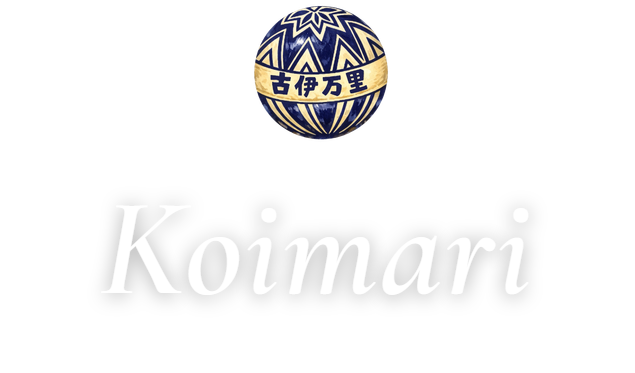
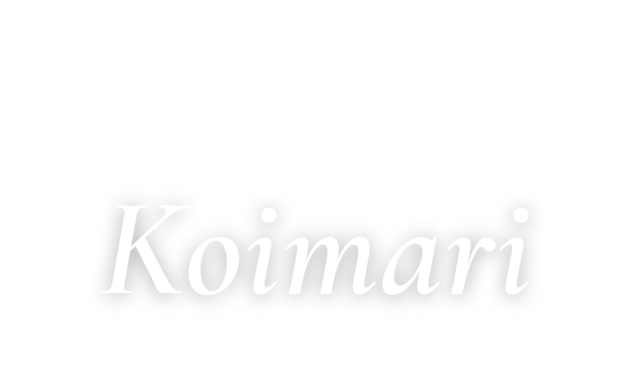
fix: ヒーローロゴを白抜きに変更、表示サイズを2倍に
クレスト部分が紺色のまま残っていたのを、線画を白一色に反転した
「白抜き」版に差し替え。Mille-feuille等の参考サイトと同じ、写真の上に
シンプルな白ロゴだけを乗せる見た目に統一。表示サイズもオーナー指示通り
2倍（220-320px→440-640px）に拡大。

Changed region(s): [[0.389, 0.0, 0.6283, 0.3834]]

diff --git a/index-v3.html b/index-v3.html
@@ -48,7 +48,7 @@ a:focus-visible{outline:2px solid var(--color-accent);outline-offset:3px}
 .hero__slide.active{opacity:1}
 .hero__slide img{width:100%;height:100%;object-fit:cover}
 .hero__brand-mark{position:absolute;inset:0;z-index:2;display:flex;flex-direction:column;align-items:center;justify-content:center;text-align:center;pointer-events:none;background:radial-gradient(ellipse at center,rgba(0,0,0,.22) 0%,rgba(0,0,0,.04) 45%,rgba(0,0,0,0) 65%)}
-.hero__brand-mark-lockup{width:clamp(220px,26vw,320px);height:auto;filter:drop-shadow(0 4px 18px rgba(0,0,0,.35))}
+.hero__brand-mark-lockup{width:clamp(440px,52vw,640px);height:auto;filter:drop-shadow(0 4px 18px rgba(0,0,0,.35))}
 .hero__dots{position:absolute;bottom:28px;left:50%;transform:translateX(-50%);display:flex;gap:12px;z-index:3}
 .hero__dot{width:11px;height:11px;border-radius:50%;background:rgba(255,255,255,.5);border:none;cursor:pointer;transition:all .4s cubic-bezier(.25,.46,.45,.94);transform:scale(1)}
 .hero__dot:hover{background:rgba(255,255,255,.8);transform:scale(1.2)}
